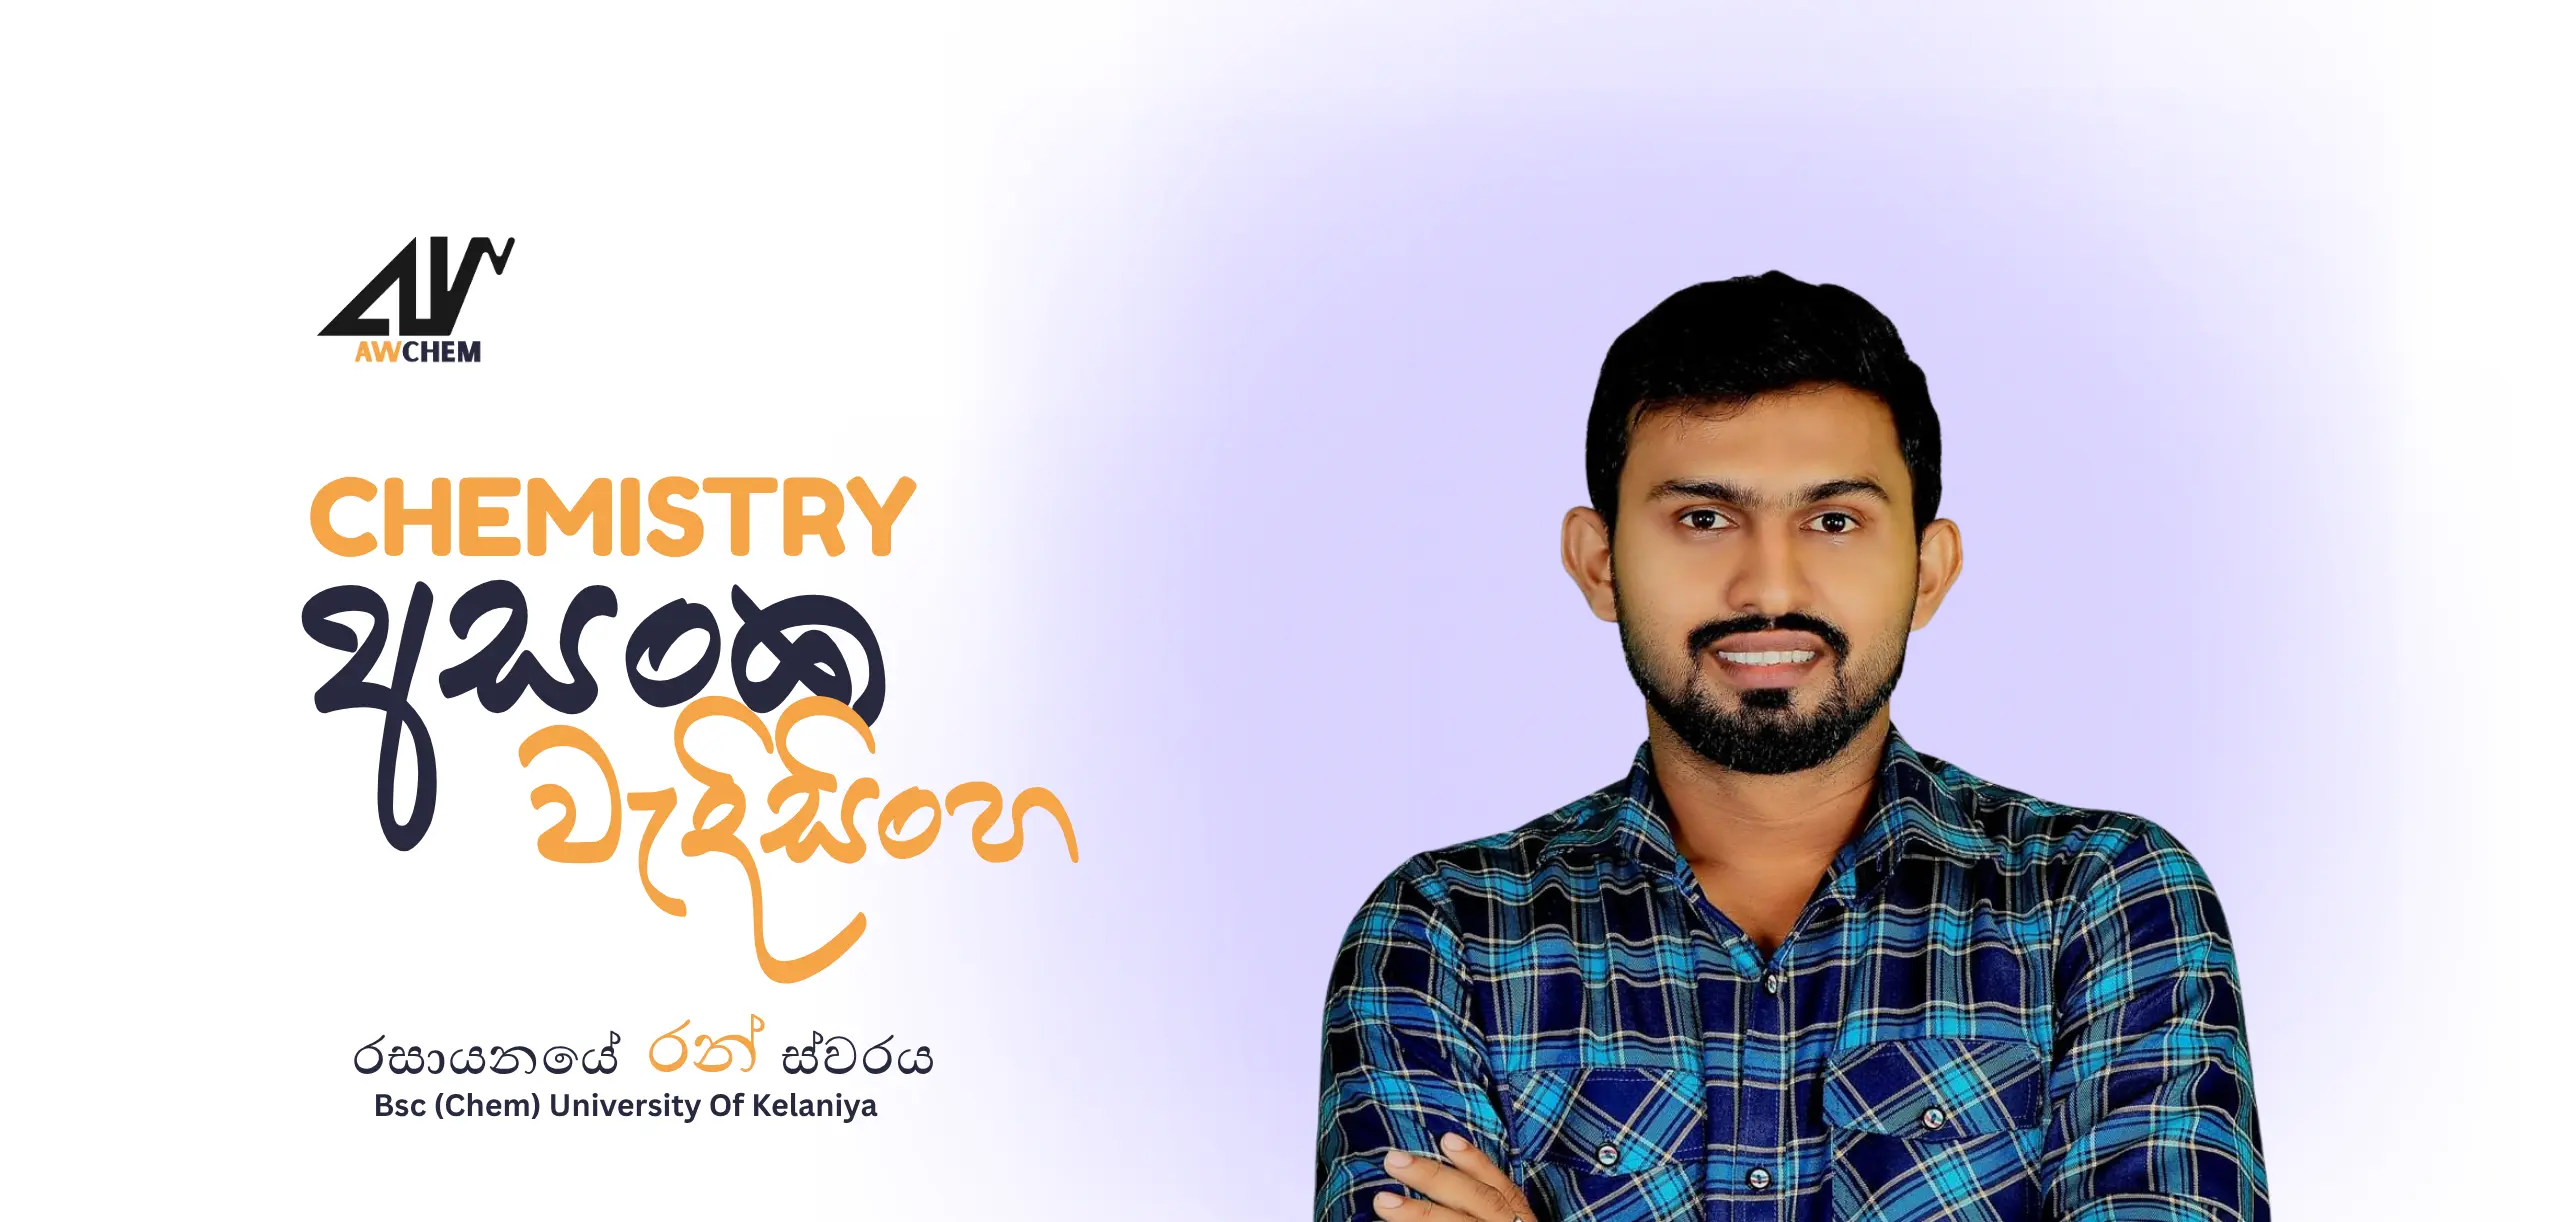
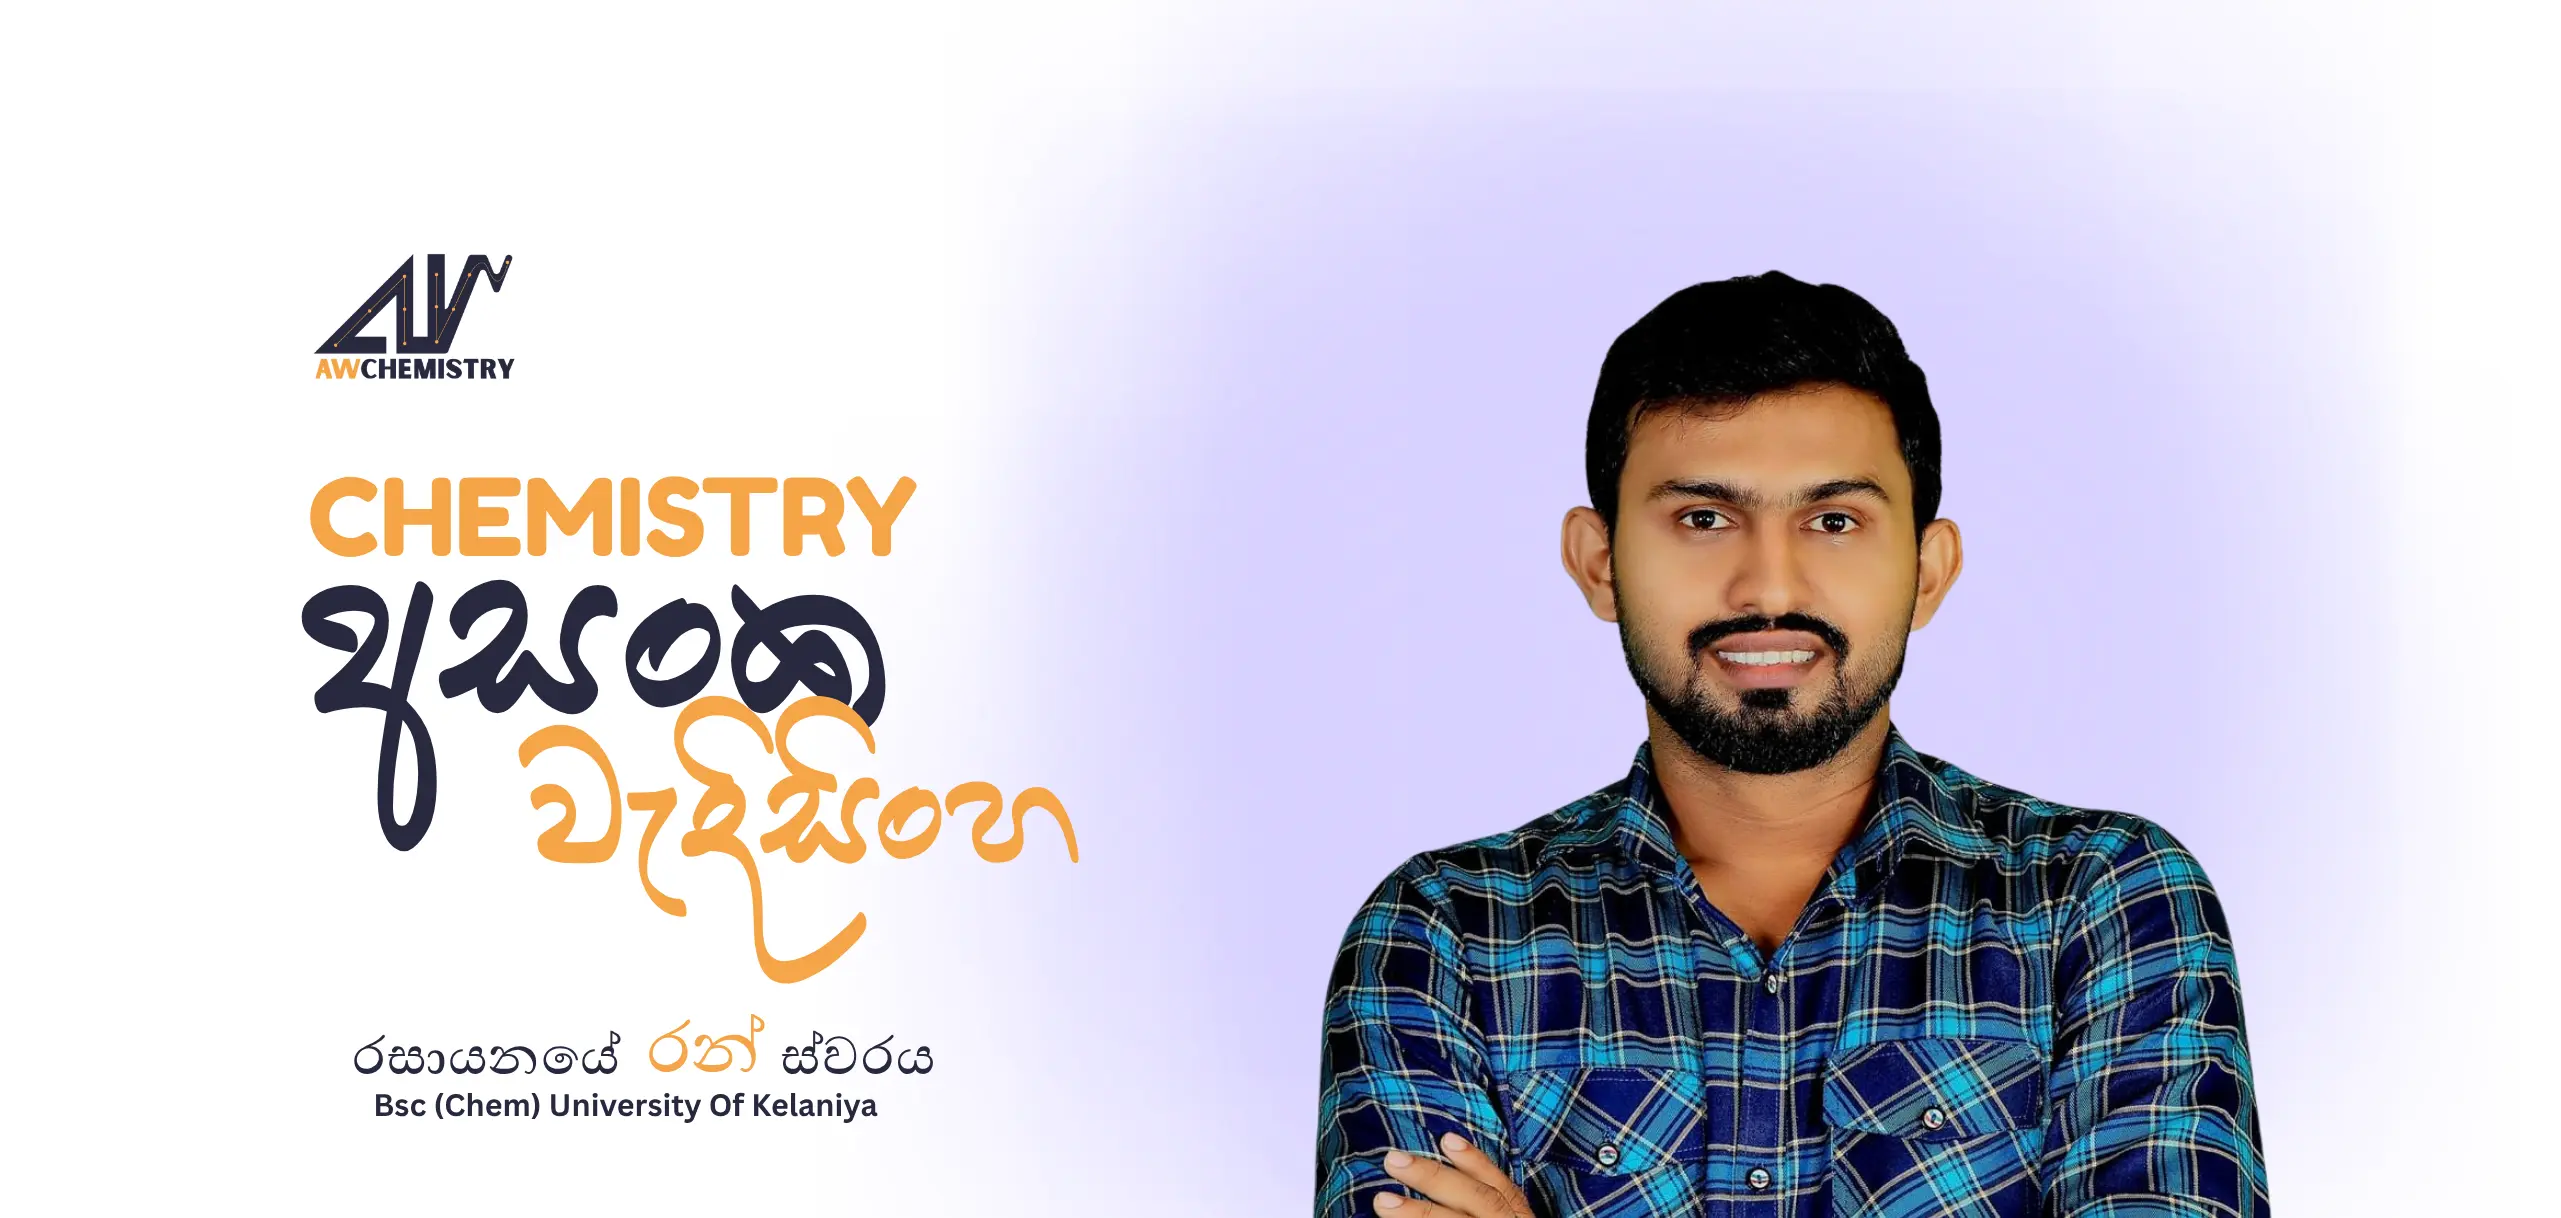
update code

diff --git a/frontend/src/components/Header.jsx b/frontend/src/components/Header.jsx
@@ -43,7 +43,7 @@ export default function Header() {
                         </div>
                         <div className="flex items-center gap-2 cursor-pointer font-bold text-white shrink-0">
                             <Link to="https://wa.me/94775782011" target="_blank">
-                                <button className="hidden sm:block border border-yelo text-white px-3 md:px-4 py-1 md:py-1.5 rounded-xl hover:bg-yelo transition duration-300 mr-2 md:mr-4 cursor-pointer text-sm md:text-base">
+                                <button className=" border border-yelo sm:bg-yelo text-white px-3 md:px-4 py-1 md:py-1.5 rounded-xl hover:bg-yelo transition duration-300 mr-2 md:mr-4 cursor-pointer text-sm md:text-base">
                                     Support
                                 </button>
                             </Link>

diff --git a/frontend/src/pages/Login.jsx b/frontend/src/pages/Login.jsx
@@ -80,7 +80,7 @@ export default function Login() {
                     <div className="md:hidden mb-7 px-2 text-white">
                         <div className="inline-flex items-center gap-2 rounded-full border border-white/15 bg-white/10 px-3 py-1.5 text-xs font-semibold tracking-wide text-yelo">
                             <span className="h-2 w-2 rounded-full bg-yelo" />
-                            AWCHEM <span className="text-white/60">|</span> SMART CHEMISTRY
+                            AWCHEMISTRY <span className="text-white/60">|</span> SMART CHEMISTRY
                         </div>
                         <h1 className="mt-5 text-3xl font-bold tracking-tight">Welcome back</h1>
                         <p className="mt-1 text-sm text-white/70">Sign in to continue to your learning space.</p>

diff --git a/frontend/src/pages/Signup.jsx b/frontend/src/pages/Signup.jsx
@@ -86,7 +86,7 @@ export default function Signup() {
         <div className="lg:hidden mb-6 px-2 text-white">
           <div className="inline-flex items-center gap-2 rounded-full border border-white/15 bg-white/10 px-3 py-1.5 text-xs font-semibold tracking-wide text-yelo">
             <span className="h-2 w-2 rounded-full bg-yelo" />
-            AWCHEM <span className="text-white/60">|</span> SMART CHEMISTRY
+            AWCHEMISTRY <span className="text-white/60">|</span> SMART CHEMISTRY
           </div>
           <h1 className="mt-5 text-3xl font-bold tracking-tight">Create your account</h1>
           <p className="mt-1 text-sm text-white/70">Join your class and keep your learning in one place.</p>

diff --git a/frontend/src/pages/HomePage.jsx b/frontend/src/pages/HomePage.jsx
@@ -1,8 +1,8 @@
 import React from 'react'
 import Navbar from '../components/Navbar'
 import HeroSection from '../assets/HeroSections.webp'
-import smHeroSection from '../assets/smHeroSection.jpg'
-import mdHeroSection from '../assets/mdHeroSection.jpg'
+import smHeroSection from '../assets/smHeroSection.webp'
+import mdHeroSection from '../assets/mdHeroSection.webp'
 import theory from '../assets/theory.webp'
 import shortNote from '../assets/short note.webp'
 import dailyReminders from '../assets/reminder.webp'

diff --git a/routes/api.php b/routes/api.php
@@ -47,7 +47,6 @@ Route::middleware('auth:sanctum')->group(function () {
     Route::delete('/unenroll/{classId}', [EnrollmentController::class, 'unenroll']);
     Route::get('/my/quizzes', [EnrollmentController::class, 'myQuizzes']);
     Route::get('/my/results', [ResultController::class, 'myResults']);
-    Route::post('/results', [ResultController::class, 'store']);
 
     Route::get('/classes/{classId}/quizzes', [ClassQuizController::class, 'index']);
     Route::get('/classes/{classId}/weeks', [ClassWeekController::class, 'index']);
@@ -65,6 +64,7 @@ Route::middleware('auth:sanctum')->group(function () {
         Route::delete('/classes/{classId}/quizzes/{quizId}', [ClassQuizController::class, 'destroy']);
 
         Route::get('/results', [ResultController::class, 'index']);
+        Route::post('/results', [ResultController::class, 'store']);
         Route::put('/results/{result}', [ResultController::class, 'update']);
         Route::delete('/results/{result}', [ResultController::class, 'destroy']);
 

diff --git a/app/Providers/AppServiceProvider.php b/app/Providers/AppServiceProvider.php
@@ -24,7 +24,8 @@ class AppServiceProvider extends ServiceProvider
         // Without this, Laravel tries to resolve the named route "password.reset"
         // which does not exist in this API-only setup, causing a 500 error.
         ResetPassword::createUrlUsing(function ($user, string $token) {
-            $frontendUrl = env('FRONTEND_URL', 'http://localhost:3000');
+            // Get the frontend URL from the config.
+            $frontendUrl = config('app.frontend_url');;
             return "{$frontendUrl}/reset-password?token={$token}&email=" . urlencode($user->email);
         });
     }
